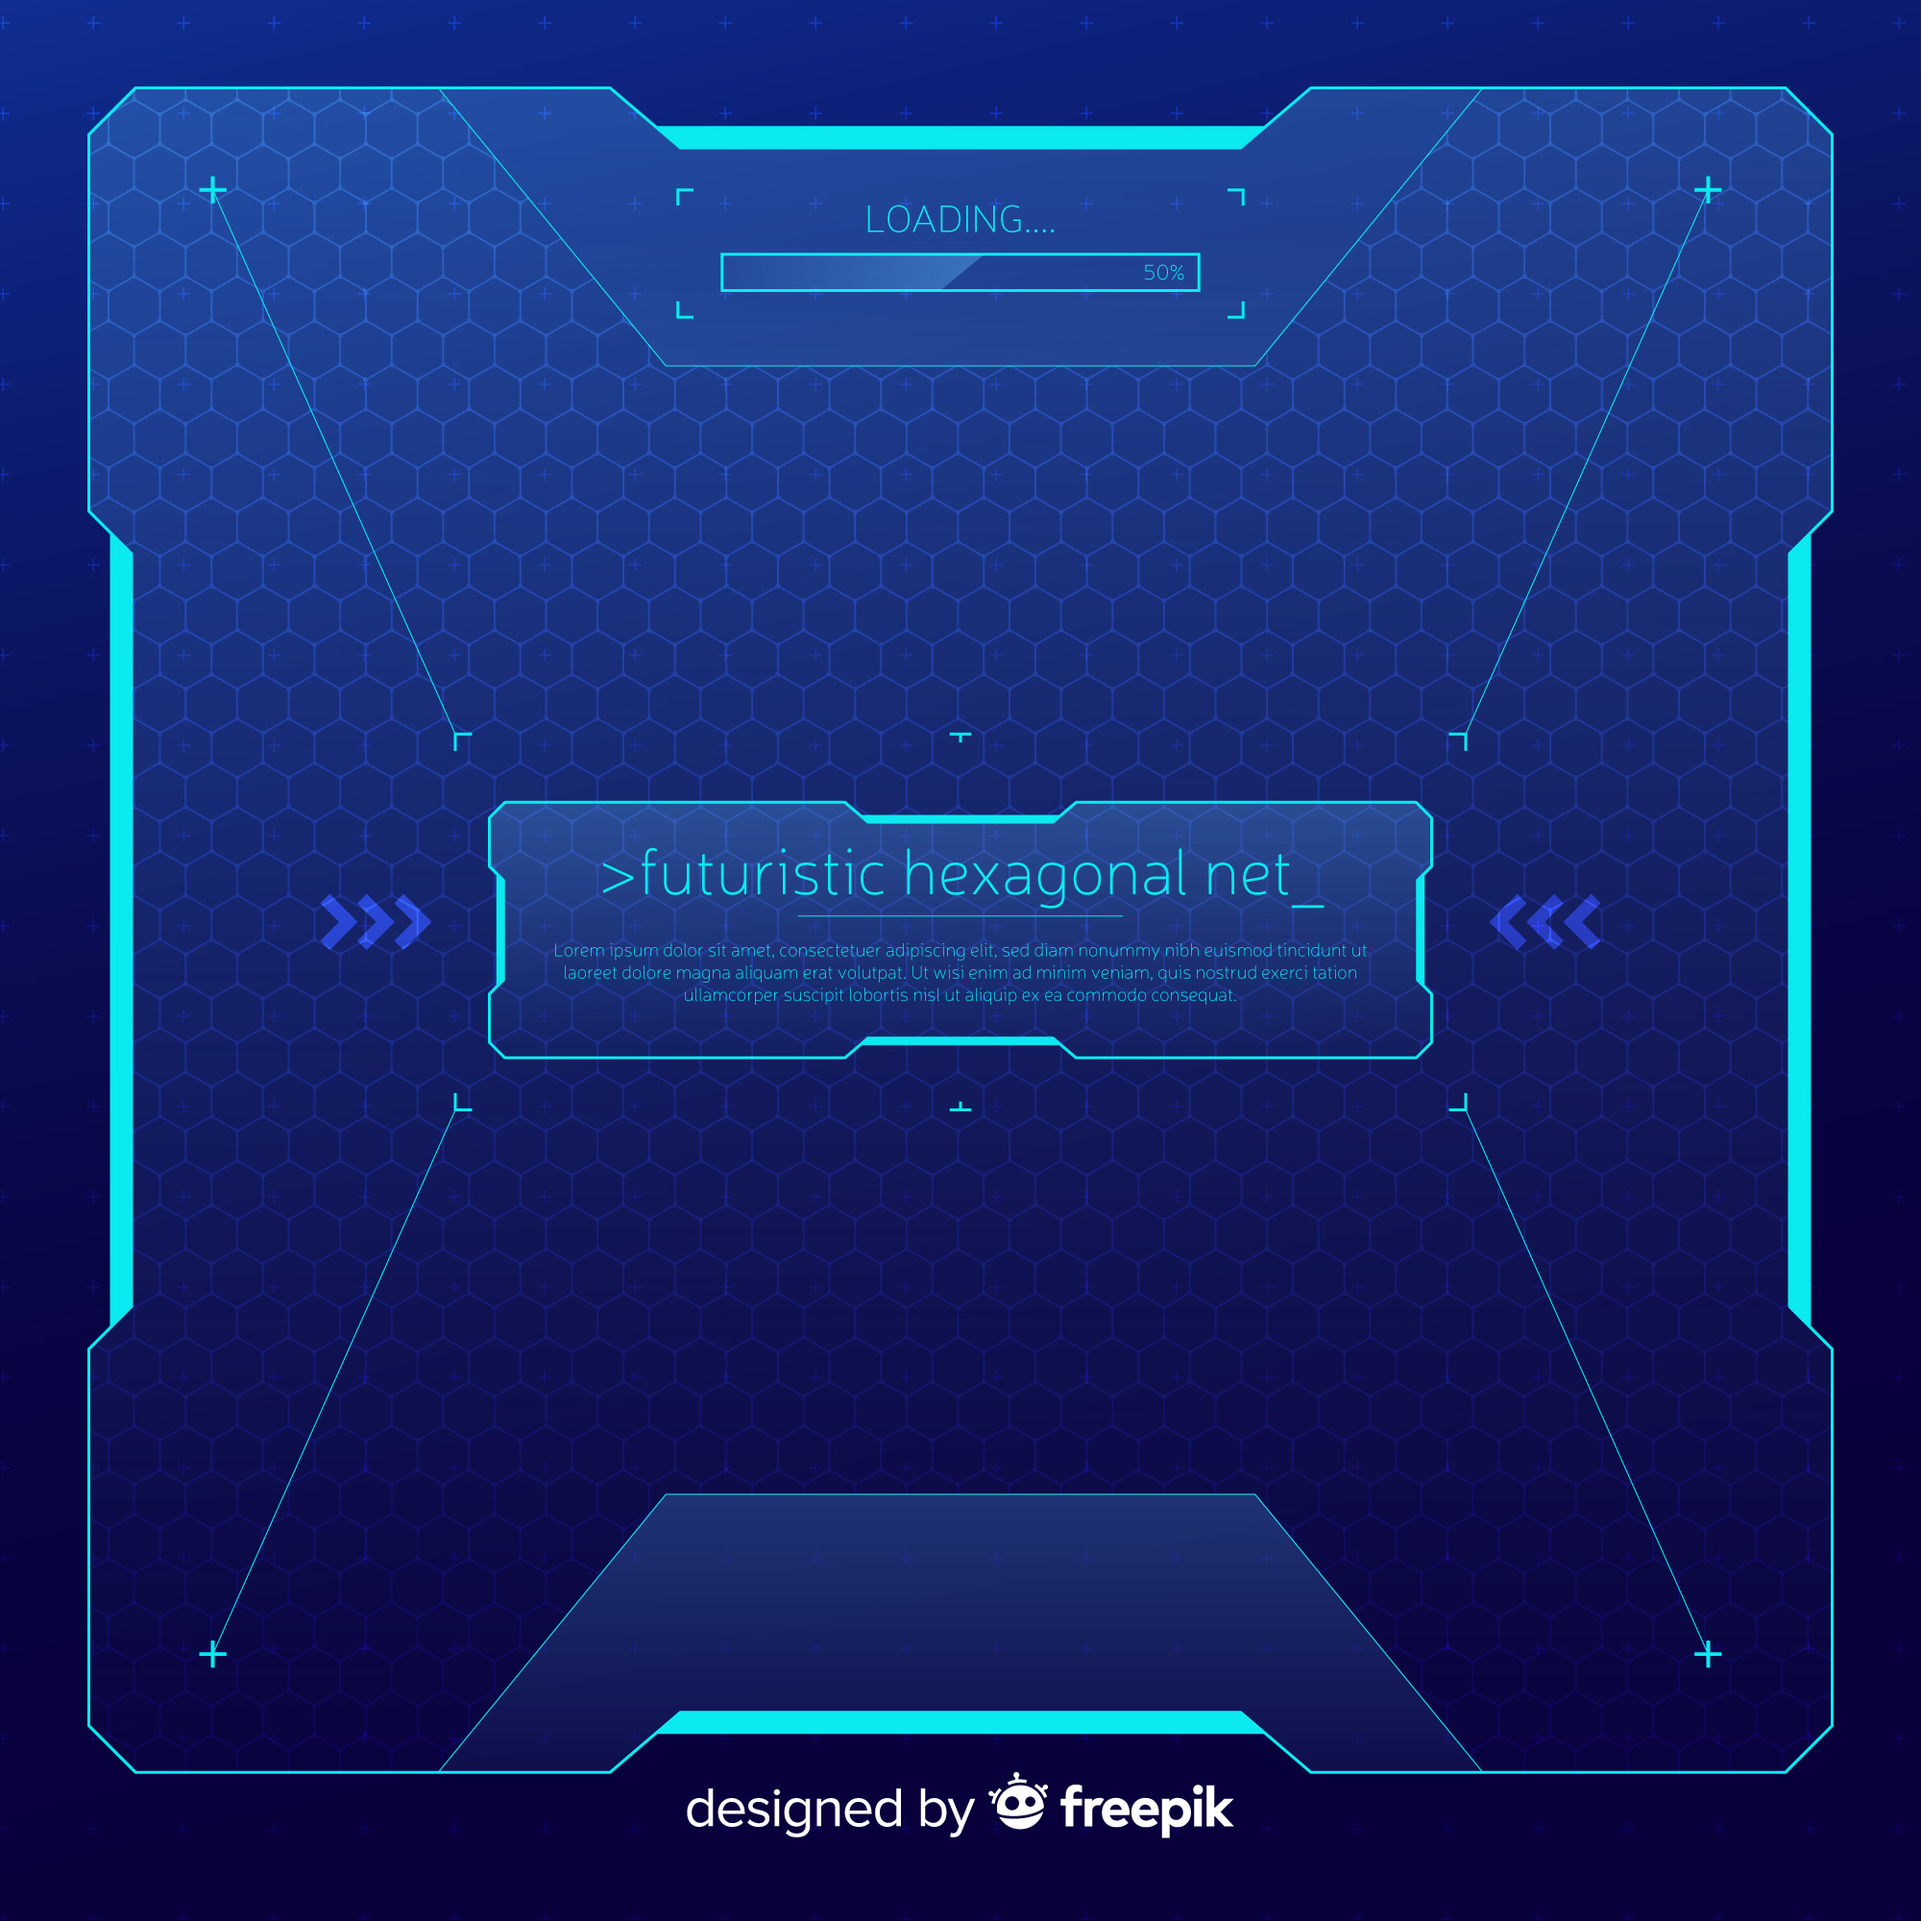
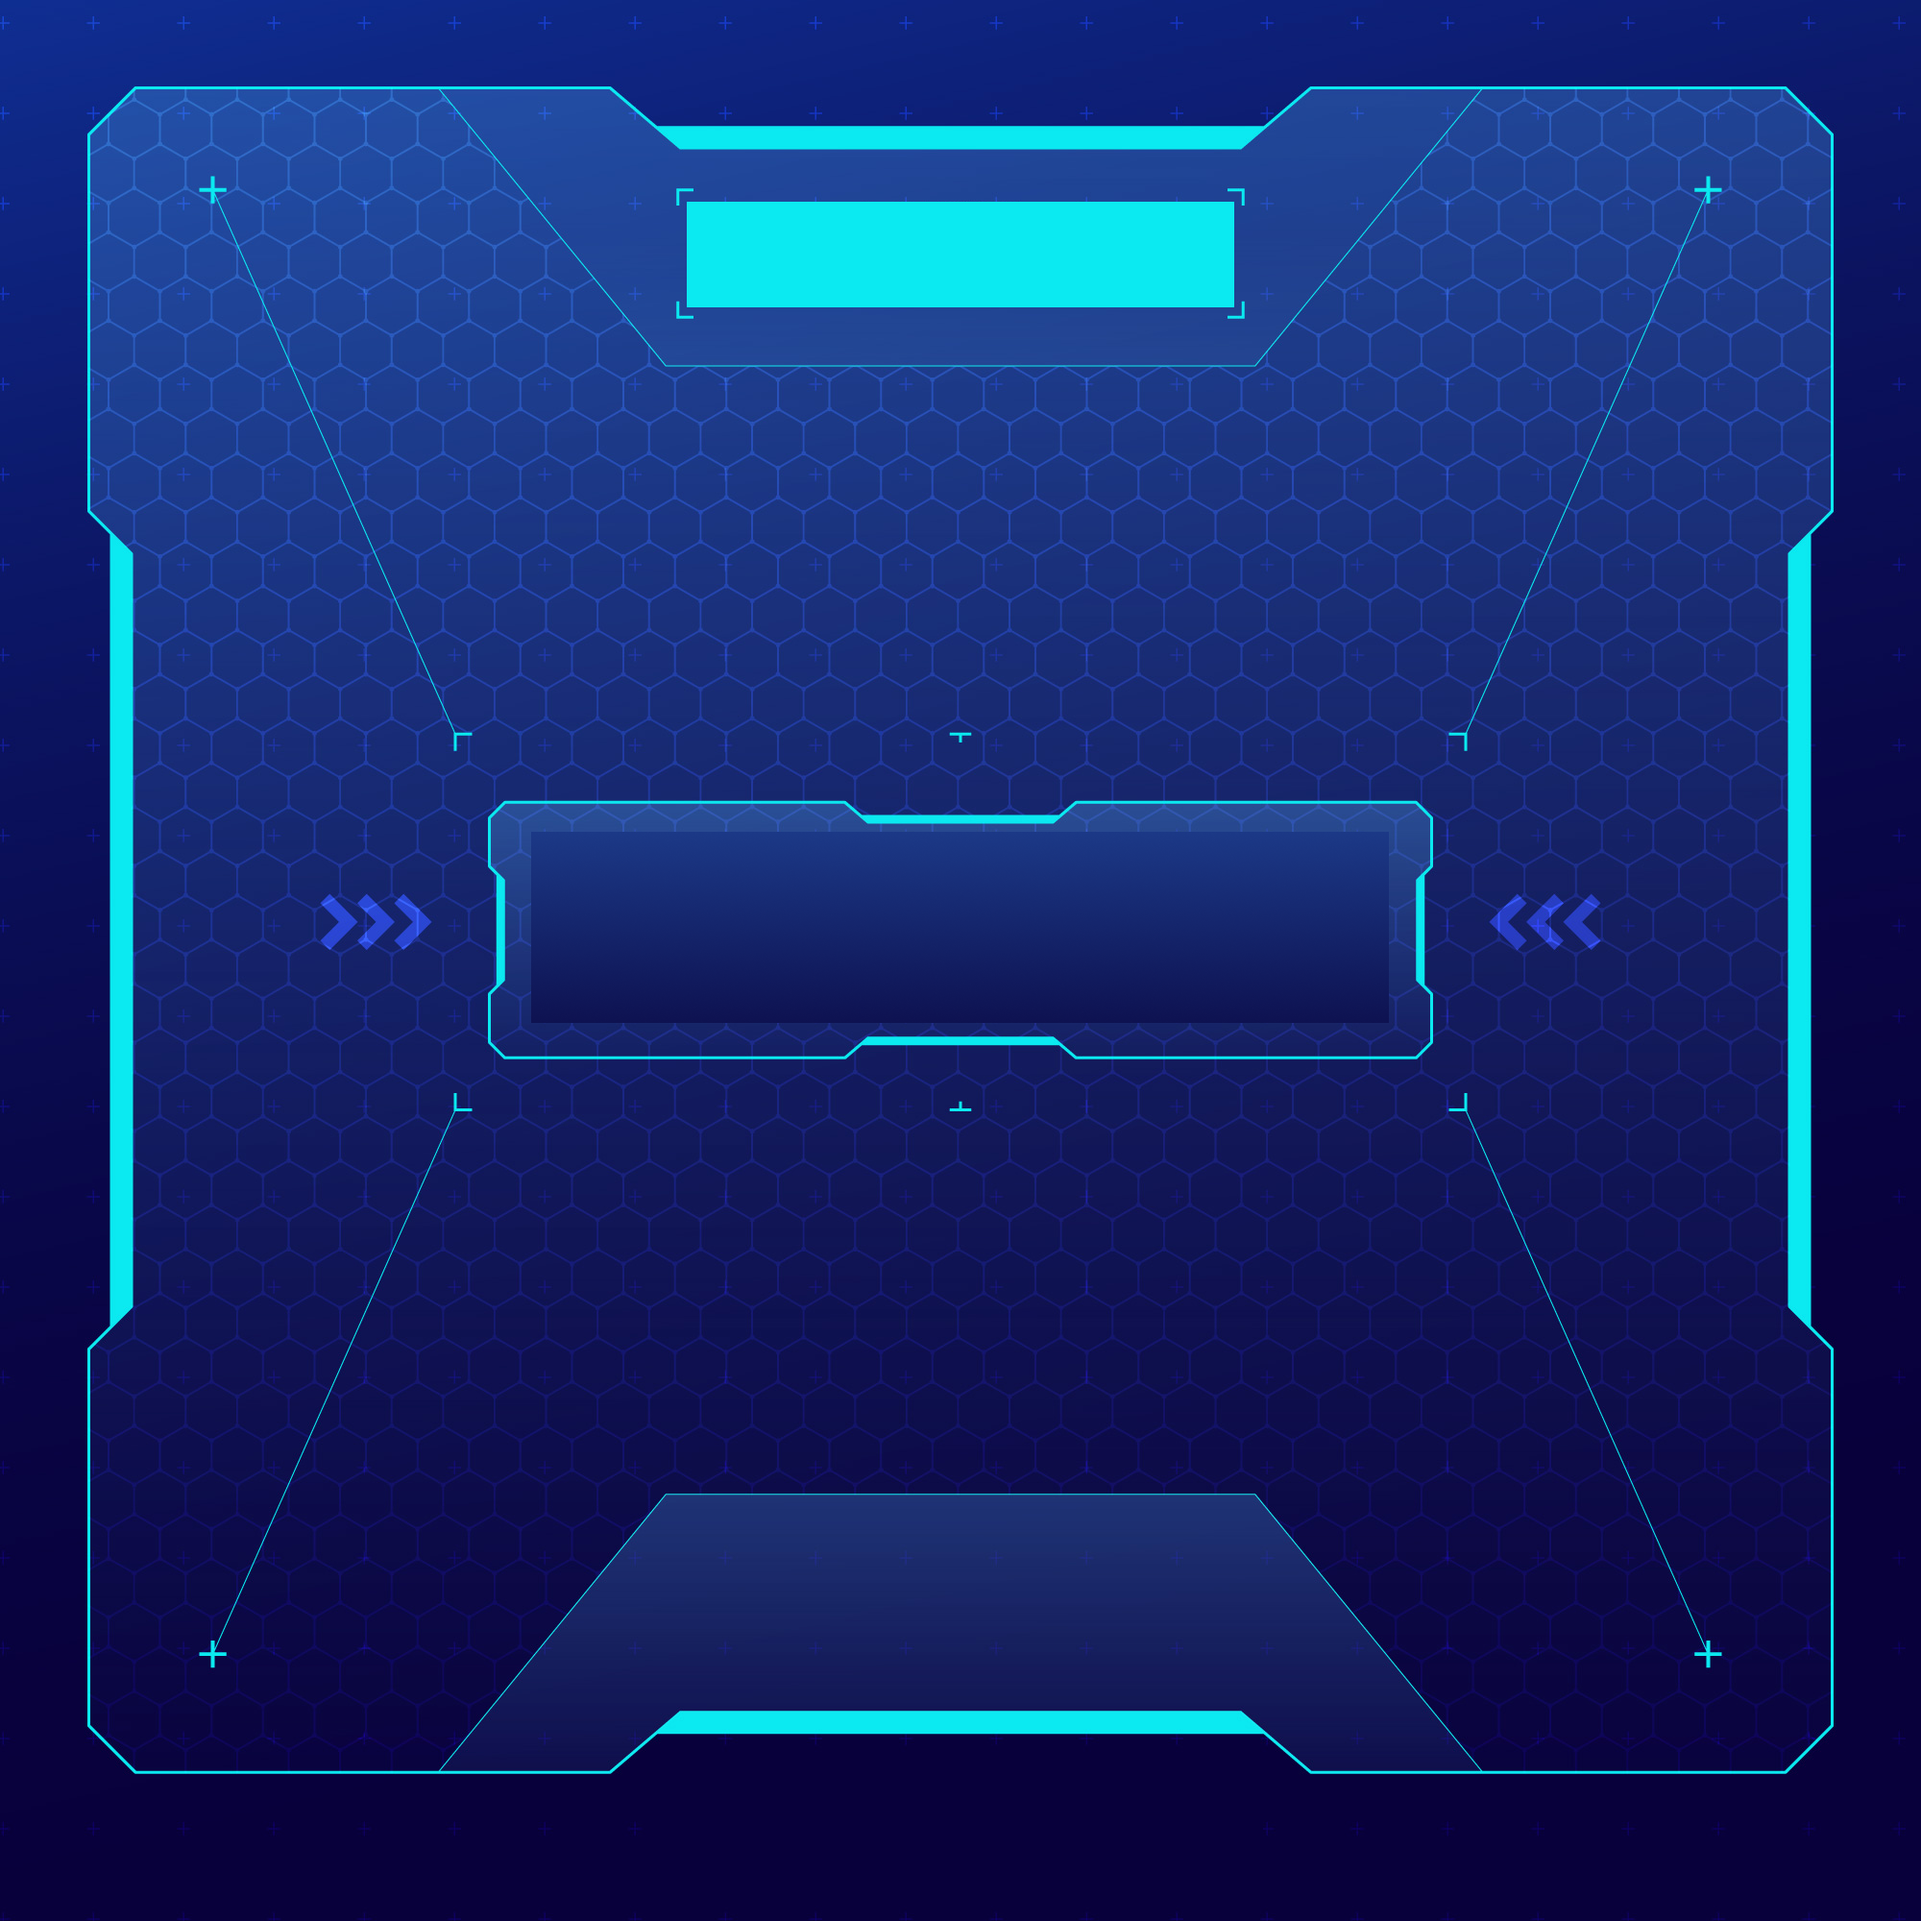
added name animation

Changed region(s): [[0.279, 0.434, 0.713, 0.558], [0.341, 0.093, 0.651, 0.186], [0.341, 0.93, 0.651, 0.961]]

diff --git a/public/script.js b/public/script.js
@@ -7,6 +7,7 @@ const userForm = document.getElementById("user-container");
 const userInput = document.getElementById("user-name");
 const roomForm = document.getElementById("roomForm");
 const UserBtn = document.getElementById("send-user");
+const intro = document.getElementById("welcome");
 let user = "";
 if (userForm != null) {
   userForm.addEventListener("submit", (e1) => {
@@ -18,6 +19,7 @@ if (userForm != null) {
     UserBtn.classList.add("bounceOut");
     localStorage.setItem("userName", user);
     UserBtn.addEventListener("animationend", function () {
+      intro.appendChild(createDivName(user, intro));
       roomContainer.style = "display:block";
       roomForm.style = "display:block";
     });
@@ -108,4 +110,22 @@ function addZero(element) {
 
 function updateScroll() {
   messageContainer.scrollTop = messageContainer.scrollHeight;
+}
+
+function createDivName(name, BigDiv) {
+  const DivName = document.createElement("div");
+  DivName.style = "display:inline-block;";
+  let user = name + "!";
+  let delay = 0;
+  for (const c of user) {
+    const span = document.createElement("span");
+    span.innerHTML = c;
+
+    span.style = "display: inline-block;animation-delay:" + delay + "s;";
+    span.classList.add("animated", "bounceInDown");
+    DivName.appendChild(span);
+    delay += 0.1;
+  }
+  BigDiv.style = "display:block;";
+  return DivName;
 }
